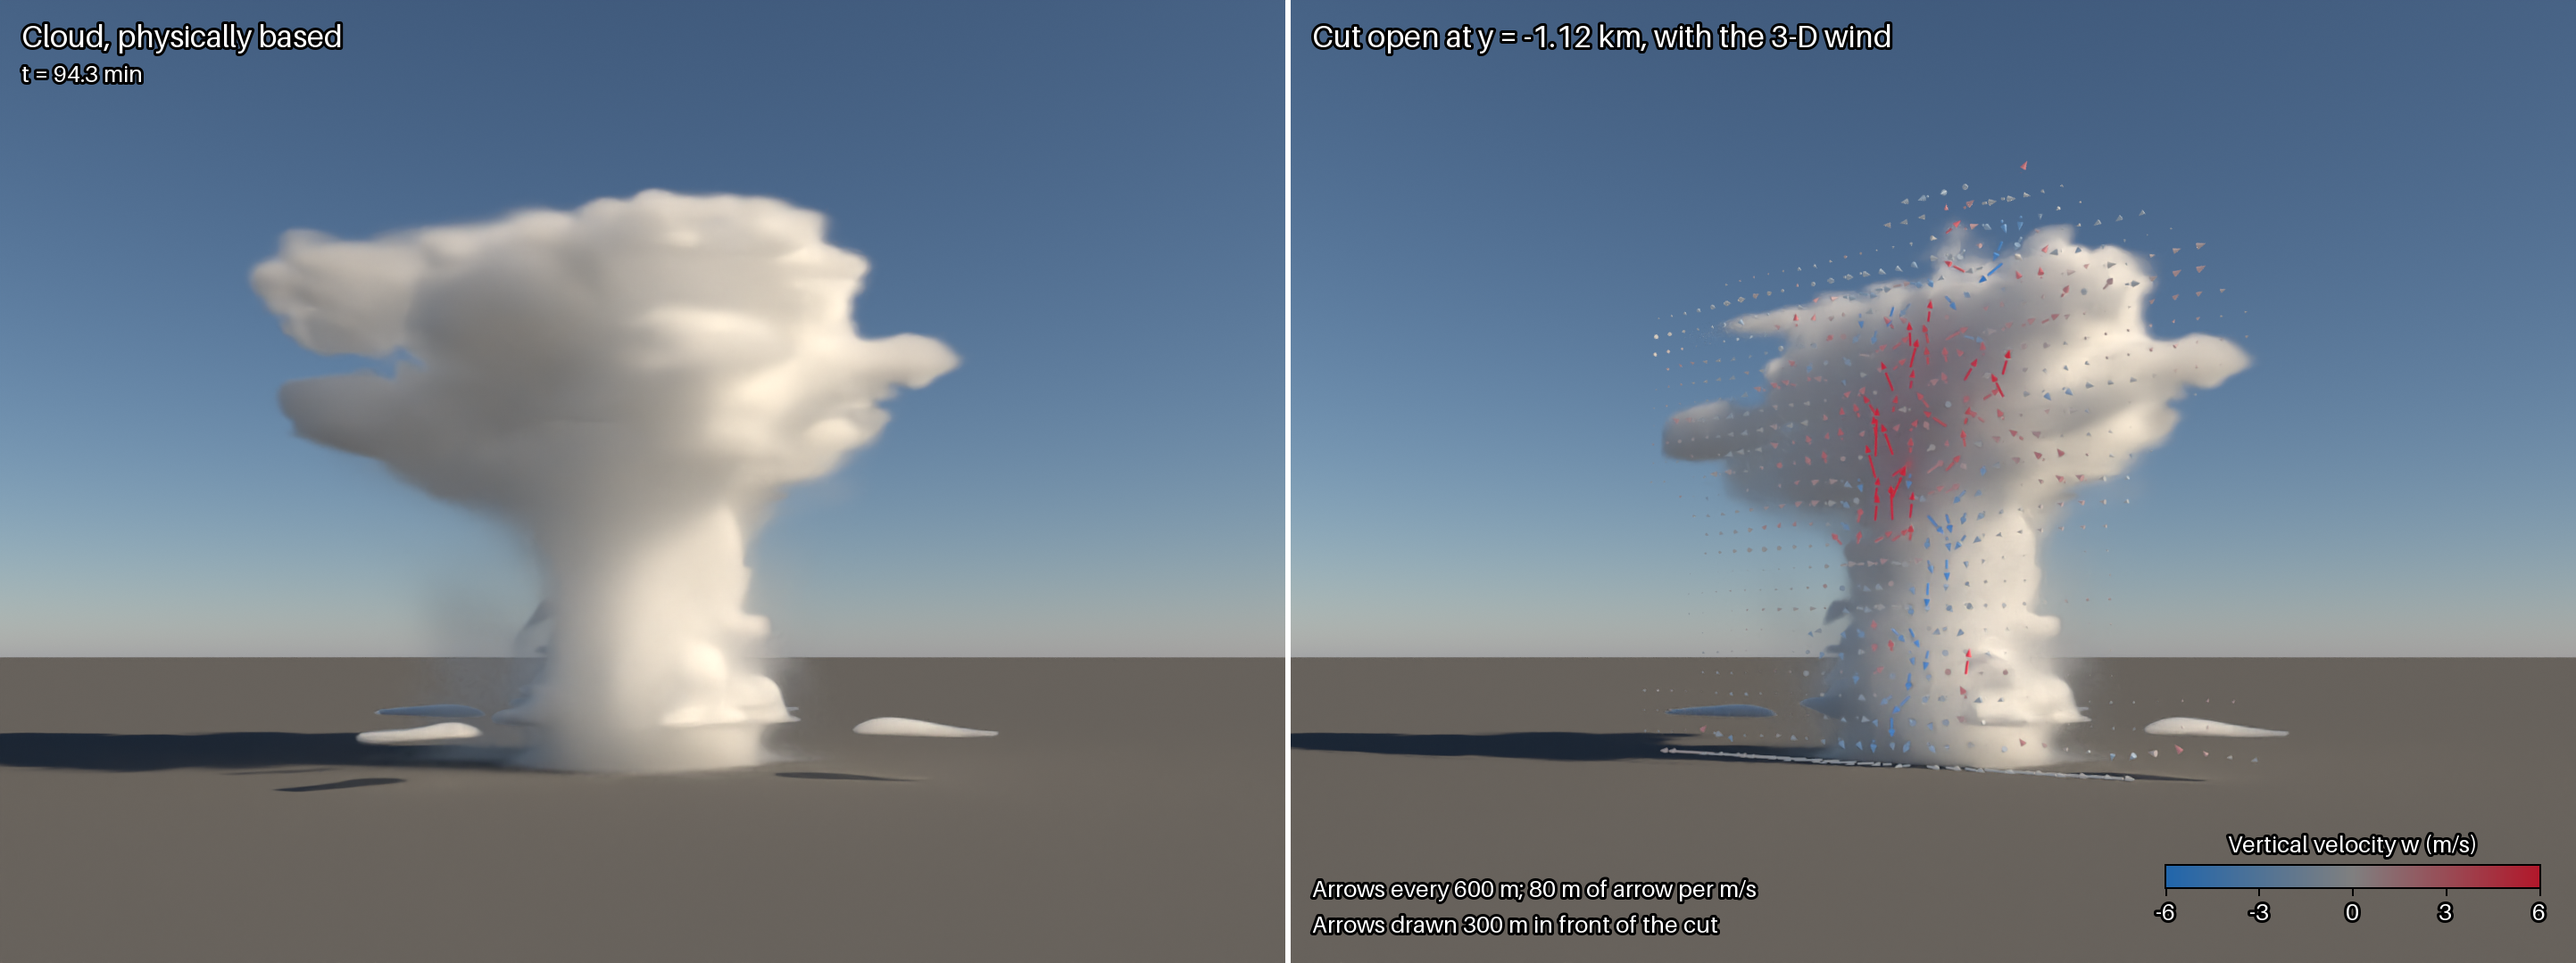
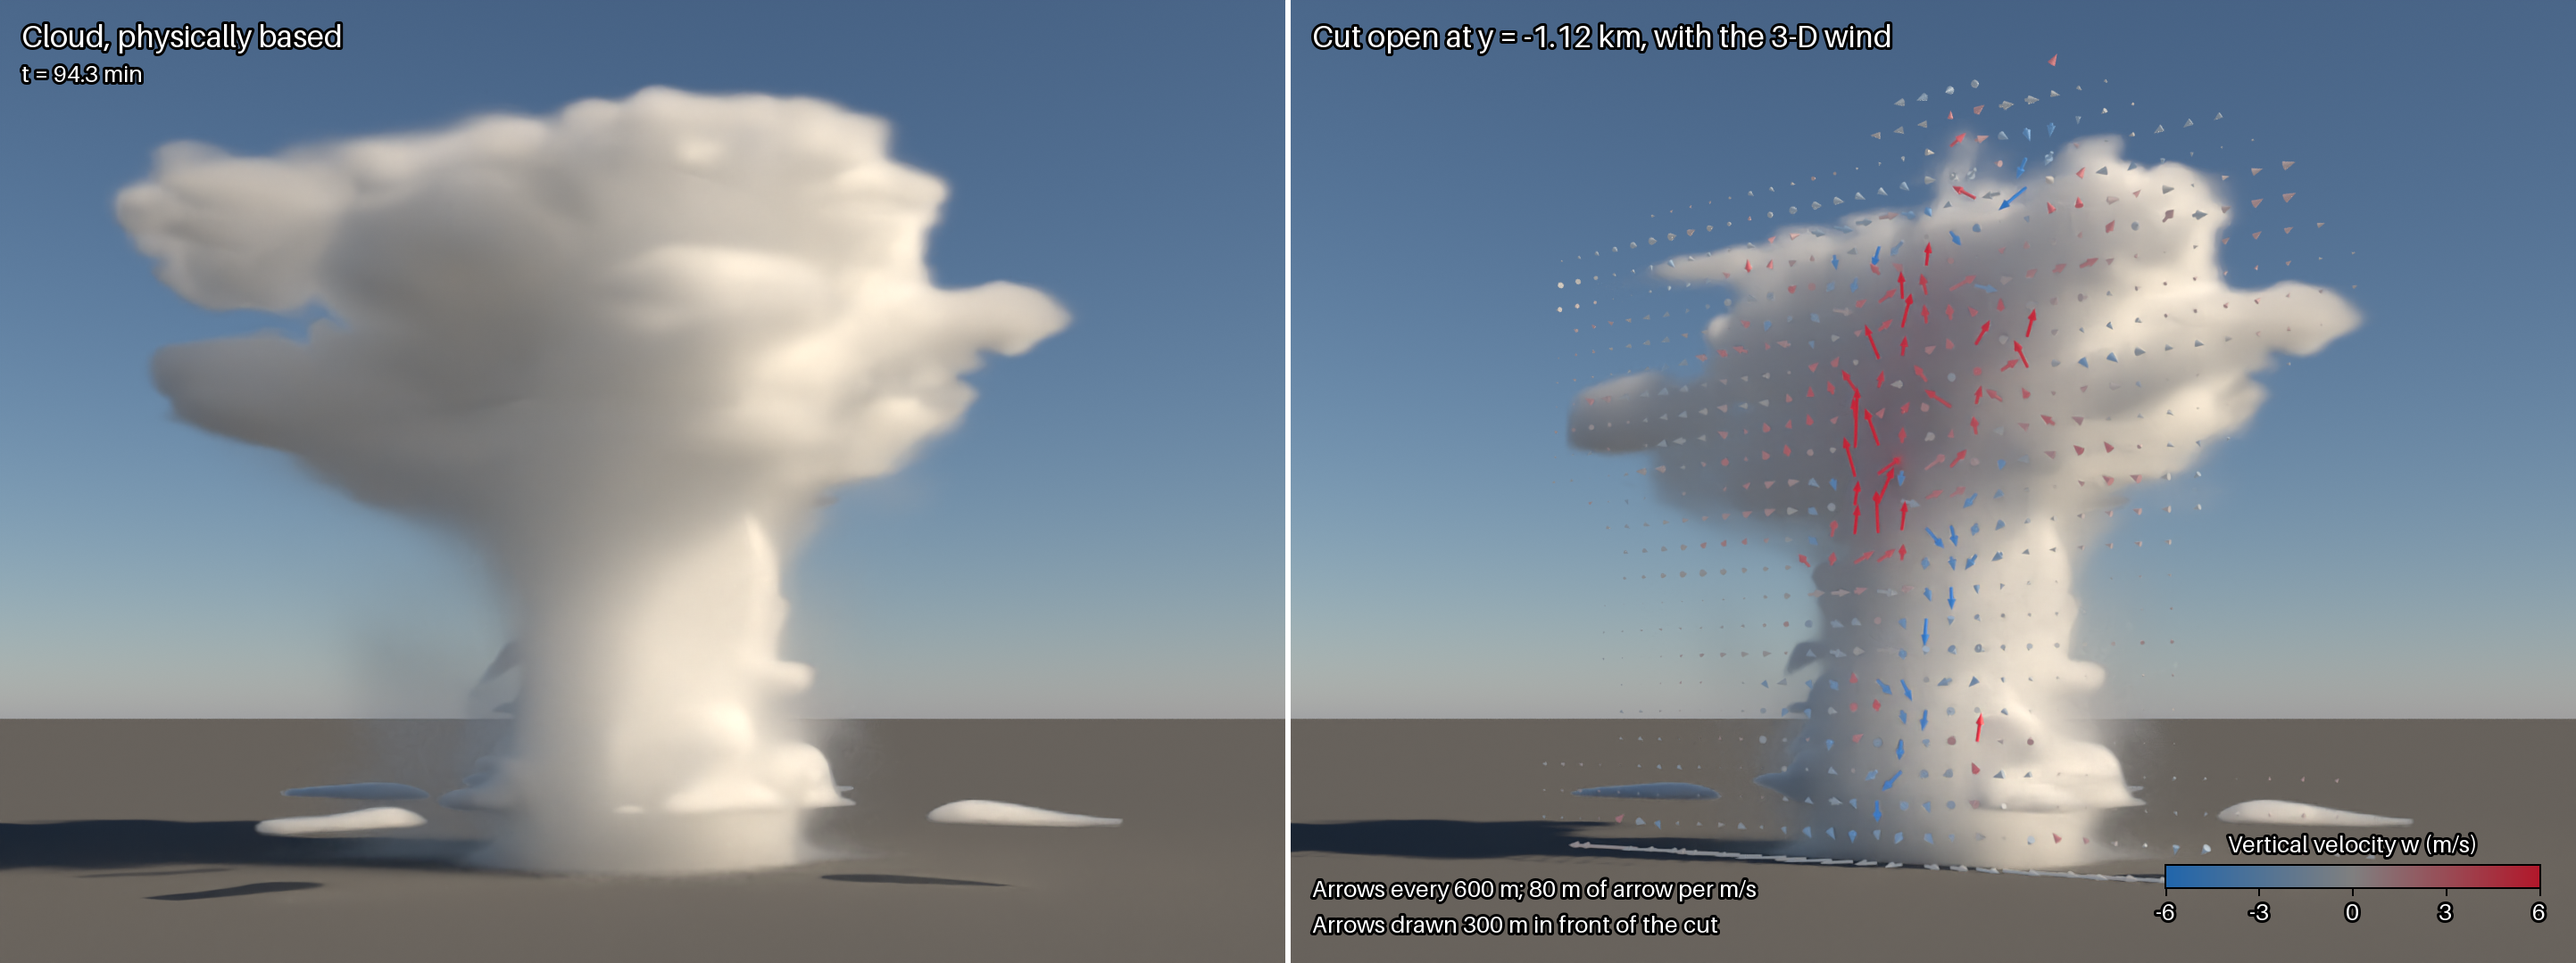
Wind cutaway figure: 1.35x zoom on both panels; re-rendered with fixed arrowheads
--zoom multiplies the focal length of both panels from the same camera
position, so the storm fills more of the frame and the panels still match.

Changed region(s): [[0.0, 0.0917, 1.0, 0.9472]]

diff --git a/examples/rams_clouds/render_rams_wind_side_by_side.py b/examples/rams_clouds/render_rams_wind_side_by_side.py
@@ -146,6 +146,16 @@ def parse_arguments() -> argparse.Namespace:
         help="Arrows within this distance (m) of cloud are always kept.",
     )
     parser.add_argument(
+        "--zoom",
+        type=float,
+        default=1.35,
+        help=(
+            "Factor on the focal length of both panels. The camera stays where"
+            " the automatic framing puts it, so this narrows the view onto the"
+            " storm without changing the perspective."
+        ),
+    )
+    parser.add_argument(
         "--cloud-mixing-ratio",
         type=float,
         default=1.0e-5,
@@ -350,9 +360,11 @@ def main() -> None:
 
     # ---- Left panel: the physically based cloud, automatic camera.
     realistic_dir = arguments.output_dir / "realistic"
+    realistic_config = make_cloud_export_config(arguments)
+    realistic_config.camera.lens_mm *= arguments.zoom
     sv.Scene().add_clouds(clouds, microphysics="rams").to_blender(
         realistic_dir,
-        config=make_cloud_export_config(arguments),
+        config=realistic_config,
         render=True,
         blender_executable=arguments.blender,
     )
@@ -362,6 +374,7 @@ def main() -> None:
     wind_config = make_cloud_export_config(arguments, origin_shift=origin_shift)
     wind_config.camera.location = camera_location
     wind_config.camera.look_at = camera_look_at
+    wind_config.camera.lens_mm *= arguments.zoom
     # The figure draws its own, larger colorbar.
     wind_config.overlay_colorbars = False
 
